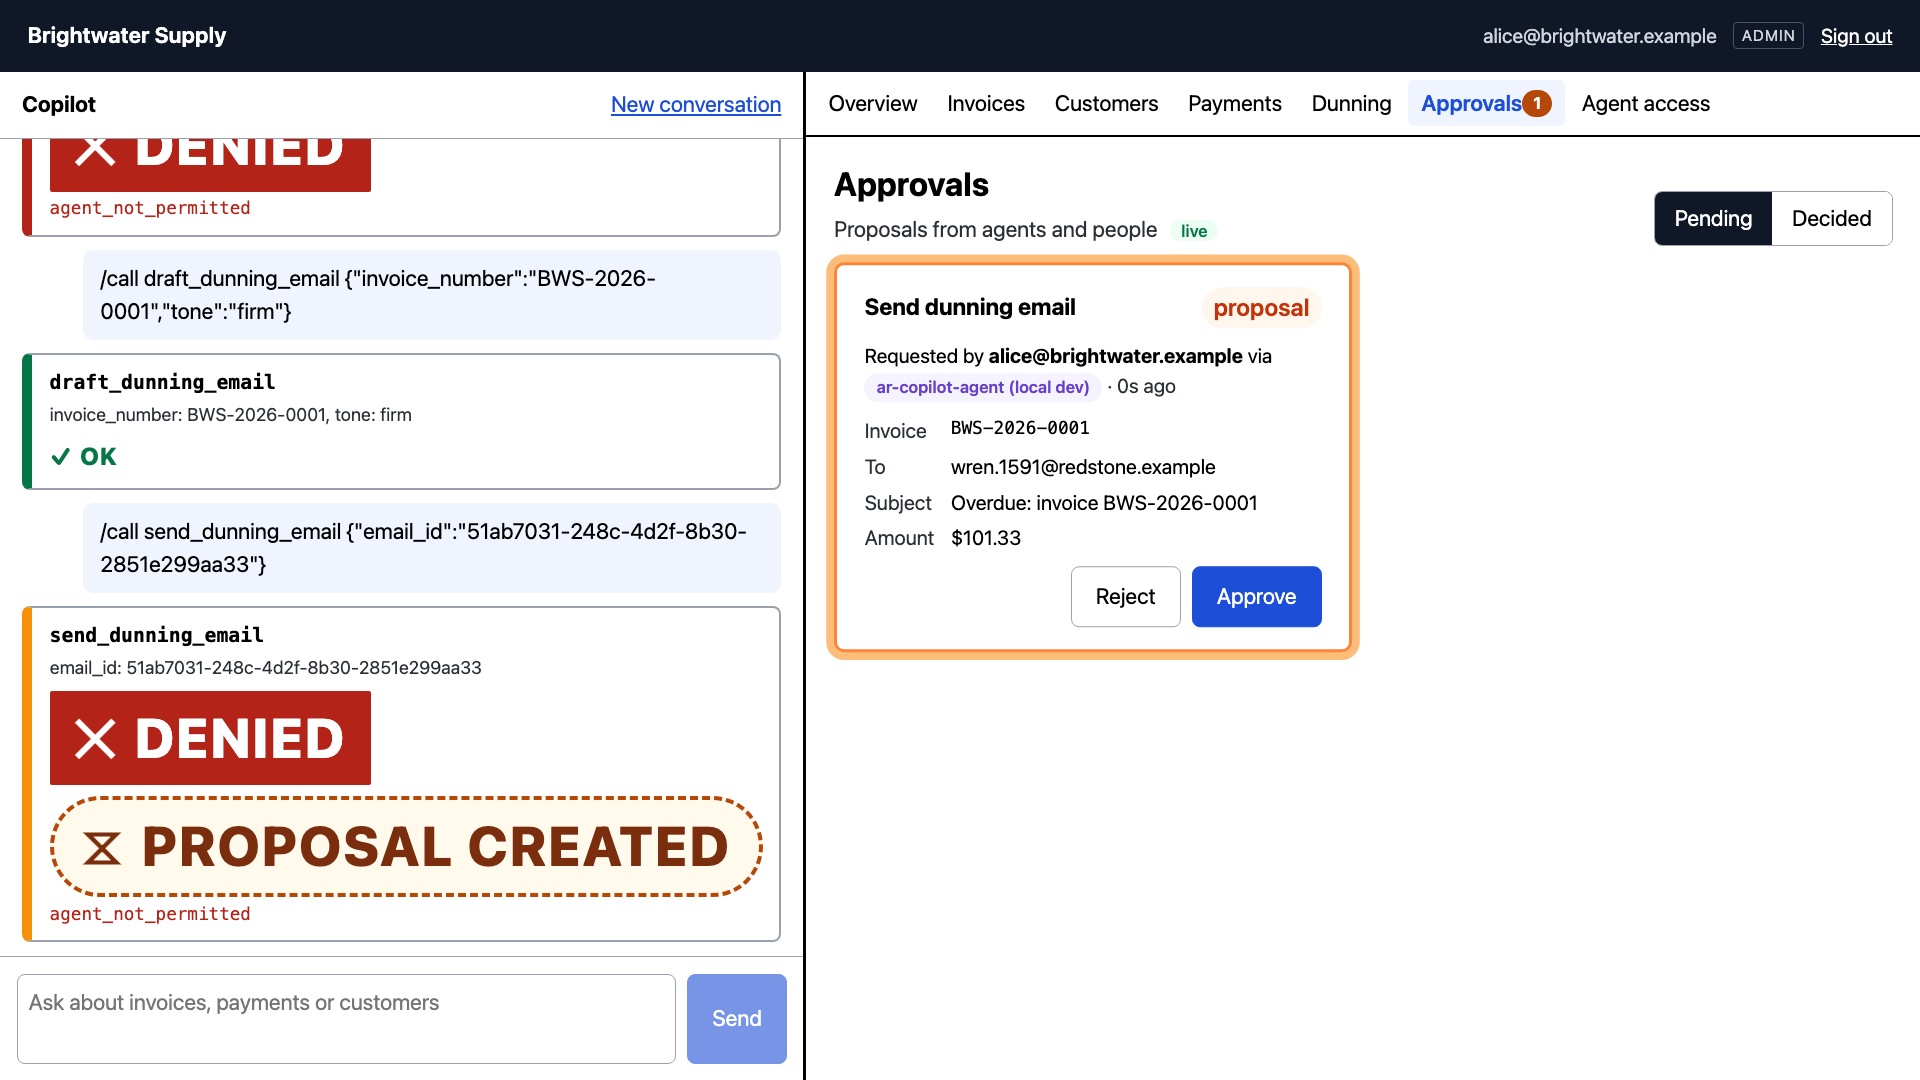
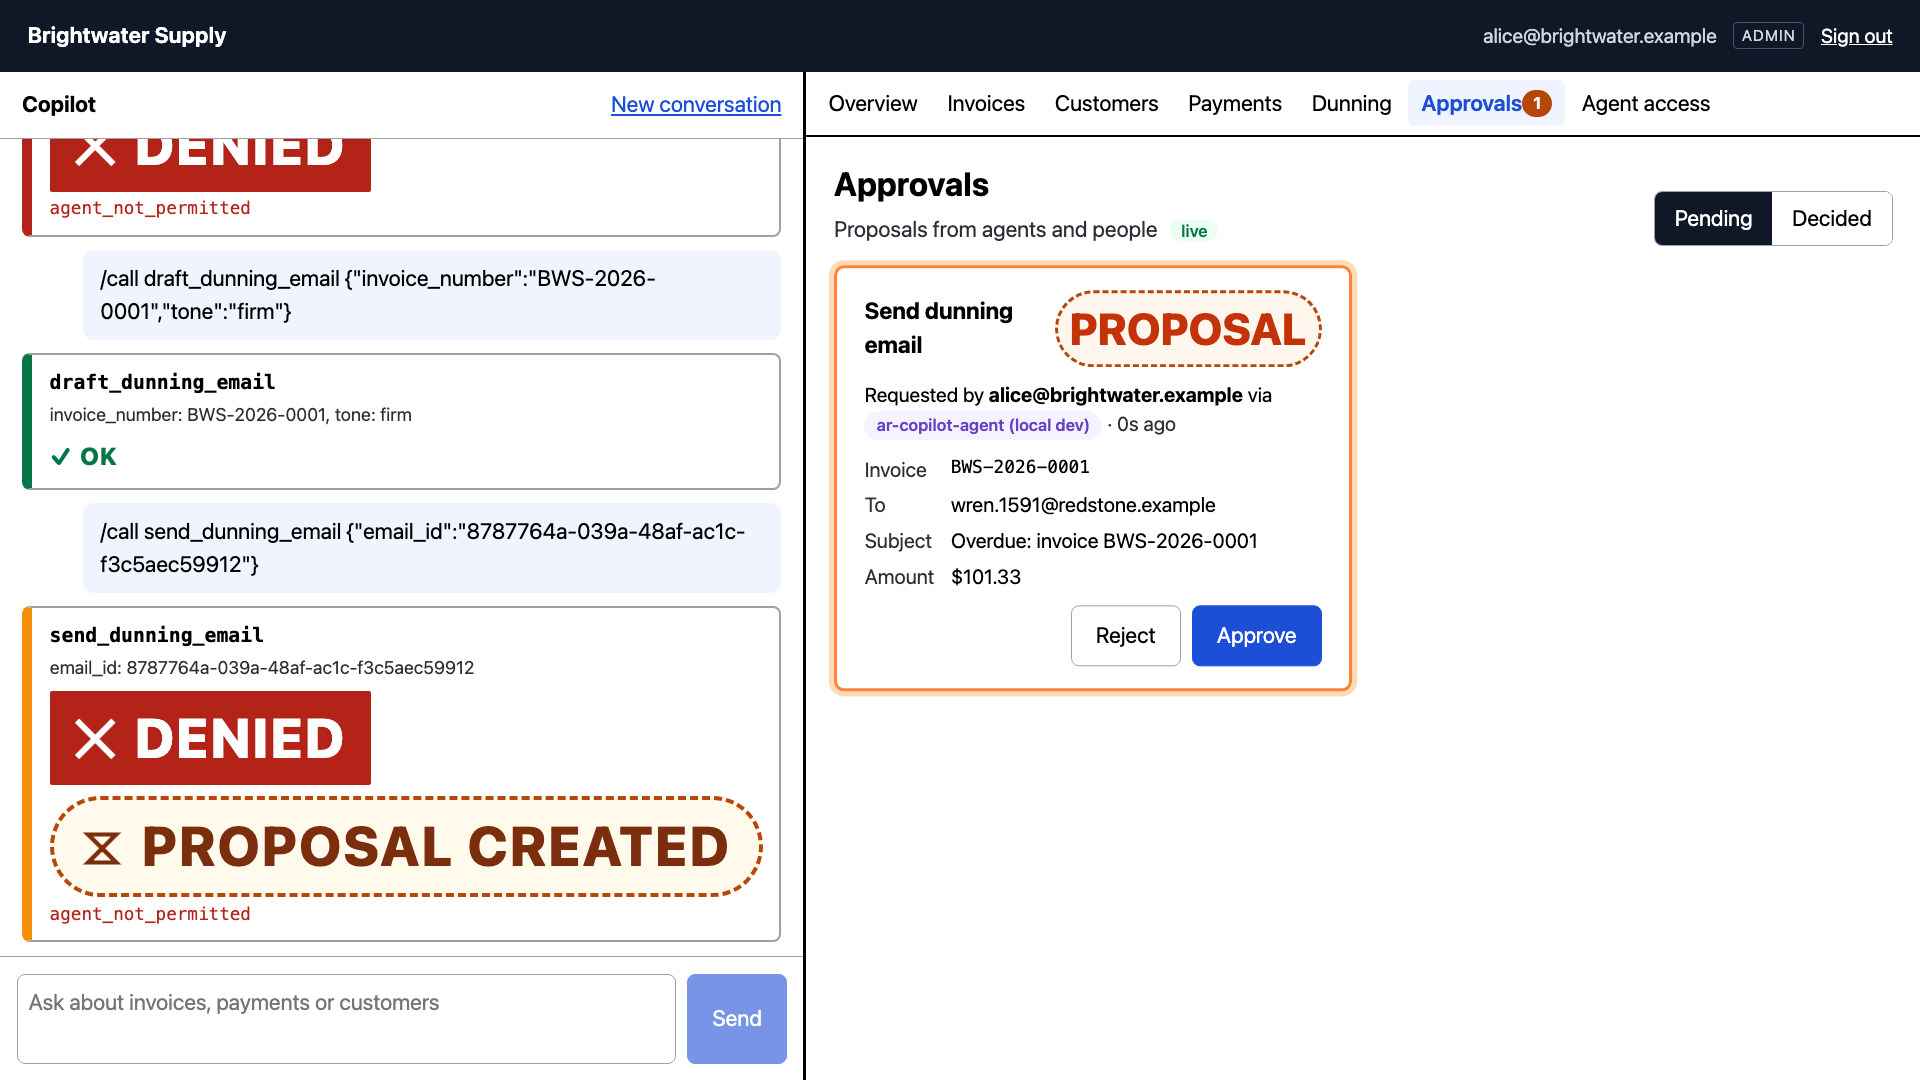
fix(apps): revoke after a stage reset; refresh-only connect check
After a rehearsal the stage reset re-activates the database grant but
not the OAuth consent; revokeGrant then answers 404
oauth_consent_not_found. Treat that as nothing to revoke instead of a
failure (unit test and an e2e step that runs the reset).

The dev agent's connect check now relies on a forced refresh only, so
the agent reaches Postgres only through the MCP server. Larger stage
label on inbox cards. scripts/lib Deno tests run in test-apps.sh.
REPORT_04 records the post-rehearsal state as a decision; CC-8 notes
the connect behavior.

diff --git a/apps/ar-app/src/lib/access.ts b/apps/ar-app/src/lib/access.ts
@@ -1,14 +1,14 @@
 // Agent access: grant status and revocation. There are two switches (CC-4): the database grant
 // (app.agent_grants, checked on every agent call, so revoking it is what makes I6 true at once) and the
 // OAuth consent (stops refresh and forces a fresh consent screen next time). Revoke clears both.
-type Result<T> = { data: T | null; error: { message: string } | null };
+type Result<T> = { data: T | null; error: { message: string; code?: string; status?: number } | null };
 
 export interface AccessClient {
   rpc(fn: string, args: Record<string, unknown>): PromiseLike<Result<unknown>>;
   auth: { oauth: { revokeGrant(o: { clientId: string }): Promise<Result<unknown>> } };
 }
 
-export type Half = { ok: true } | { ok: false; message: string };
+export type Half = { ok: true; already?: true } | { ok: false; message: string };
 
 export async function revokeBoth(sb: AccessClient, clientId: string): Promise<{ database: Half; oauth: Half }> {
   let database: Half;
@@ -24,7 +24,9 @@ export async function revokeBoth(sb: AccessClient, clientId: string): Promise<{ 
   let oauth: Half;
   try {
     const r = await sb.auth.oauth.revokeGrant({ clientId });
-    oauth = r.error ? { ok: false, message: r.error.message } : { ok: true };
+    // No consent to revoke (for example after a stage reset re-activated only the database grant).
+    if (r.error?.code === "oauth_consent_not_found") oauth = { ok: true, already: true };
+    else oauth = r.error ? { ok: false, message: r.error.message } : { ok: true };
   } catch (e) {
     oauth = { ok: false, message: (e as Error).message };
   }

diff --git a/apps/ar-app/src/lib/access.test.ts b/apps/ar-app/src/lib/access.test.ts
@@ -1,7 +1,7 @@
 import { describe, expect, it } from "vitest";
 import { revokeBoth, type AccessClient } from "./access.ts";
 
-function fake(db: "ok" | "denied" | "error", oauth: "ok" | "error") {
+function fake(db: "ok" | "denied" | "error", oauth: "ok" | "error" | "none") {
   const calls: string[] = [];
   const sb: AccessClient = {
     rpc: async (fn, args) => {
@@ -11,6 +11,7 @@ function fake(db: "ok" | "denied" | "error", oauth: "ok" | "error") {
     },
     auth: { oauth: { revokeGrant: async (o) => {
       calls.push(`oauth:${o.clientId}`);
+      if (oauth === "none") return { data: null, error: { message: "No active grant found for this client", status: 404, code: "oauth_consent_not_found" } };
       return { data: null, error: oauth === "error" ? { message: "oauth down" } : null };
     } } },
   };
@@ -33,6 +34,13 @@ describe("revokeBoth", () => {
   it("reports a database refusal as returned", async () => {
     const { sb } = fake("denied", "ok");
     expect((await revokeBoth(sb, "c1")).database).toEqual({ ok: false, message: "human_only" });
+  });
+
+  // After a stage reset the database grant is active again but the OAuth consent is gone; the server
+  // answers 404 oauth_consent_not_found. Nothing to revoke is not a failure.
+  it("treats a missing OAuth consent as already revoked", async () => {
+    const { sb } = fake("ok", "none");
+    expect((await revokeBoth(sb, "c1")).oauth).toEqual({ ok: true, already: true });
   });
 
   it("reports an OAuth failure", async () => {

diff --git a/scripts/dev-agent.ts b/scripts/dev-agent.ts
@@ -103,12 +103,11 @@ async function invocations(req: Request): Promise<Response> {
     if (t === "revoked") { await emit({ type: "error", code: "access_revoked", message: "Agent access was revoked. Connect again to continue." }); return; }
     if (!t) { await emit({ type: "consent_required", url: await consentUrl(who.sub) }); return; }
     if (body.action === "connect") {
-      // "Connect" means: hold a token that works now. Force a refresh (fails once the OAuth consent is revoked)
-      // and check the database grant; otherwise drop the token and ask for consent again.
+      // "Connect" means: hold a token that still works. Force a refresh, which fails once the OAuth consent is
+      // revoked (the app's revoke always clears it); then drop the token and ask for consent again. No direct
+      // database call here: the agent reaches Postgres only through the MCP server.
       const fresh = await tokenRequest({ grant_type: "refresh_token", refresh_token: t.refresh });
-      const w = fresh ? await (await fetch(`${SB}/rest/v1/rpc/whoami`, { method: "POST",
-        headers: { apikey: ANON, authorization: `Bearer ${fresh.access}`, "content-type": "application/json" }, body: "{}" })).json() : null;
-      if (!fresh || !w?.agent_grant_active || claims(fresh.access).sub !== who.sub) {
+      if (!fresh || claims(fresh.access).sub !== who.sub) {
         vault.delete(who.sub);
         await emit({ type: "consent_required", url: await consentUrl(who.sub) });
         return;

diff --git a/apps/ar-app/src/pages/Agent.tsx b/apps/ar-app/src/pages/Agent.tsx
@@ -78,7 +78,7 @@ export function AgentAccess() {
           <strong>Access revoked for {revoked.name}.</strong>
           <ul>
             <li>Database grant: {revoked.database.ok ? "revoked (the agent's next call is refused)" : `failed: ${revoked.database.message}`}</li>
-            <li>OAuth consent: {revoked.oauth.ok ? "revoked (no refresh; consent is asked again)" : `failed: ${revoked.oauth.message}`}</li>
+            <li>OAuth consent: {revoked.oauth.ok ? (revoked.oauth.already ? "none to revoke (consent is asked again)" : "revoked (no refresh; consent is asked again)") : `failed: ${revoked.oauth.message}`}</li>
           </ul>
         </div>
       )}

diff --git a/apps/ar-app/src/styles.css b/apps/ar-app/src/styles.css
@@ -160,7 +160,7 @@ html.stage .badge-denied { padding: 0.1em 0.45em; }
 html.stage .badge-proposal { border-width: 4px; }
 html.stage .badge-ok { font-size: 1.1rem; }
 html.stage .card.proposal { border-width: 3px; }
-html.stage .pill-proposal { font-size: 1.1rem; }
+html.stage .card .pill-proposal { font-size: 2rem; font-weight: 800; text-transform: uppercase; border: 3px dashed #b54708; }
 html.stage .outcome-denied .badge-denied { font-size: 2.5rem; }
 html.stage .msg { font-size: 1rem; }
 /* stage: badges get their own row and wrap, so two large badges never clip */

diff --git a/docs/context-packs/REPORT_04.md b/docs/context-packs/REPORT_04.md
@@ -26,7 +26,7 @@ which broke `evals/run.ts`; pack 02's Deno suites were re-run green after the mo
 | ID | Criterion | Status |
 |----|-----------|--------|
 | P1 | Stage beats 1-5 driven from the AR app in stage mode | **Blocked on pack 03.** Beats 1-5 are rehearsed end to end in stage mode against the local dev agent (scripted, `copilot.e2e.mjs`); P1 needs the real runtime. |
-| P2 | Denials and proposals unmistakable from 10 m | **Pass by measurement, locally**: stage-mode badges are 55 px at 1920x1080 (cap height about 8 cm on a 4 m wide image), white on red 6.6:1, brown on cream 9.0:1, and differ by word, icon and shape (solid block vs dashed rounded tag). Not yet checked on a real projector. |
+| P2 | Denials and proposals unmistakable from 10 m | **Pass by measurement, locally**: stage-mode copilot badges are 55 px at 1920x1080 (cap height about 8 cm on a 4 m wide image), white on red 6.6:1, brown on cream 9.0:1, and differ by word, icon and shape (solid block vs dashed rounded tag); the inbox card's PROPOSAL label is 44 px with the same dashed tag. Not yet checked on a real projector. |
 | P3 | Realtime approvals in under 2 s | **Pass locally**: across three runs, 15 agent proposals appeared in the open inbox in 80 to 799 ms (the evidence file holds the last run). Stage not measured. |
 | P4 | Arena: QR to first prompt in under 60 s on a phone | Not started. Blocked on D3 (needs a hosted URL) and pack 03. |
 | P5 | No authorization logic in the apps | Holds for the consent page, AR views, approvals inbox, agent access page and copilot panel (reviews below). |
@@ -233,8 +233,13 @@ succeeds is decided by Postgres and the auth server. Stage mode is presentation 
 3. **No grant write on the remembered branch.** Writing one would re-enable a revoked grant without a
    click whenever someone gets the user to load an authorize URL. The app's revoke action clears both
    halves (`revoke_agent` and `oauth.revokeGrant`), so a revoked user always sees a fresh screen.
-   Known gap: `reset_stage.sql` re-activates stage grants but cannot reset remembered consents
-   (REPORT_02 call 28); that is consistent, since both halves end up active.
+   **After a rehearsal the halves disagree:** beat 5 revokes both, then `reset_stage.sql` re-activates the
+   database grant but cannot restore the OAuth consent. The agent page then shows the grant as active, an
+   AgentCore vault token keeps working until it expires, and its next refresh fails (consent required).
+   Revoke in that state works (the missing consent is reported as "none to revoke", e2e step). Decision for
+   the humans: (a) the reset stops re-activating grants, so every rehearsal starts at "Connect agent" (changes
+   the S9 reset and its `06` assertion), or (b) keep it and add "reconnect the agent before a rehearsal" to the
+   runbook.
 4. **AR app sign-in is email + password** (Alice and Bob are seeded users). The arena will use magic
    links per pack 04.
 5. **Playwright for browser checks**, run from `scripts/e2e-apps.sh`. The e2e scripts register a
@@ -250,11 +255,10 @@ succeeds is decided by Postgres and the auth server. Stage mode is presentation 
 8. **Aging amounts are invoice totals** for open and partial invoices; there is no paid-to-date column,
    so partial invoices count at full value. The Overview labels the total "Open invoice value", not "outstanding".
 9. **Connect validates the held token** (dev agent). A vault token survives a revoke until it expires, so
-   "Connect" alone would report "connected" while every call is denied. Connect forces a refresh (fails after
-   the OAuth consent is revoked) and checks `whoami.agent_grant_active`; on failure it drops the token and
-   asks for consent. Suggested for the AgentCore runtime too (CC-8 behaviors). Known edge: if only the
-   database grant is revoked (not via the app) while the OAuth consent is still remembered, consent is
-   auto-approved without writing a grant, so the agent stays denied until the user revokes from the app.
+   "Connect" alone would report "connected" while every call is denied. Connect forces a refresh, which
+   fails once the OAuth consent is revoked (the app's revoke always clears it), then drops the token and asks
+   for consent. Refresh only, no direct database check: the agent reaches Postgres only through the MCP
+   server. Proposed for the AgentCore runtime in CC-8.
 10. **Text arrives per turn, not per token.** The shared loop uses Converse (request/response); tool chips
    still appear live as each call starts and finishes. Token streaming (ConverseStream) can be added if the
    stage beats need it.

diff --git a/docs/context-packs/CONTRACT_CHANGES.md b/docs/context-packs/CONTRACT_CHANGES.md
@@ -128,3 +128,7 @@ runtime's session-id rules (pack 03 to confirm the header name and length rules)
   vault token, and the next request gets `consent_required`.
 - The return-URL handler for 3LO (`CompleteResourceTokenAuth`, CC-6) is outside this stream; the app calls it
   through `AgentClient.completeConnect(params)` when the user lands back on the return URL.
+- `connect` should confirm the held vault token still works, not just that one exists: a vault token survives
+  "Revoke agent access" until it expires. The dev agent forces a refresh (refused once the app has revoked the
+  OAuth consent) and, on failure, drops the token and returns `consent_required`. It does not call the database
+  directly for this check, so the agent path stays MCP-only and audited.
